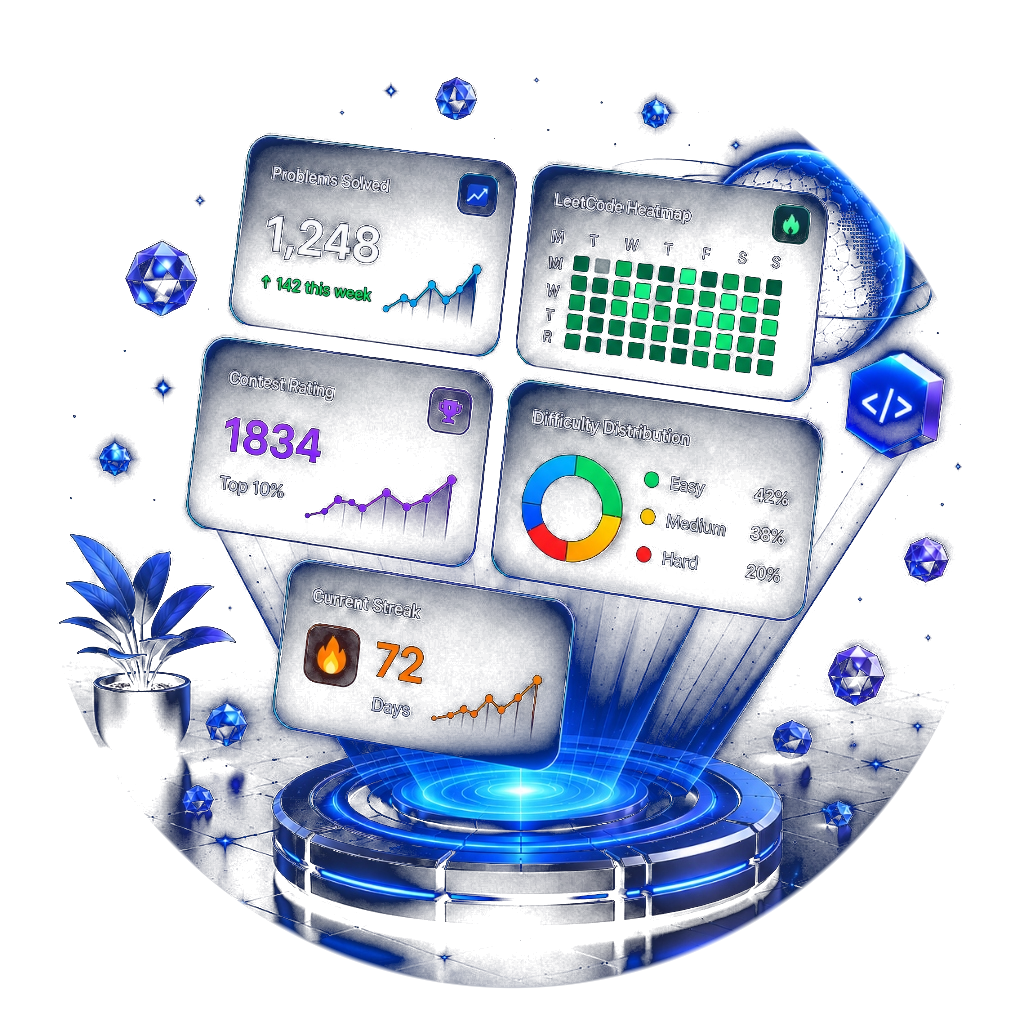
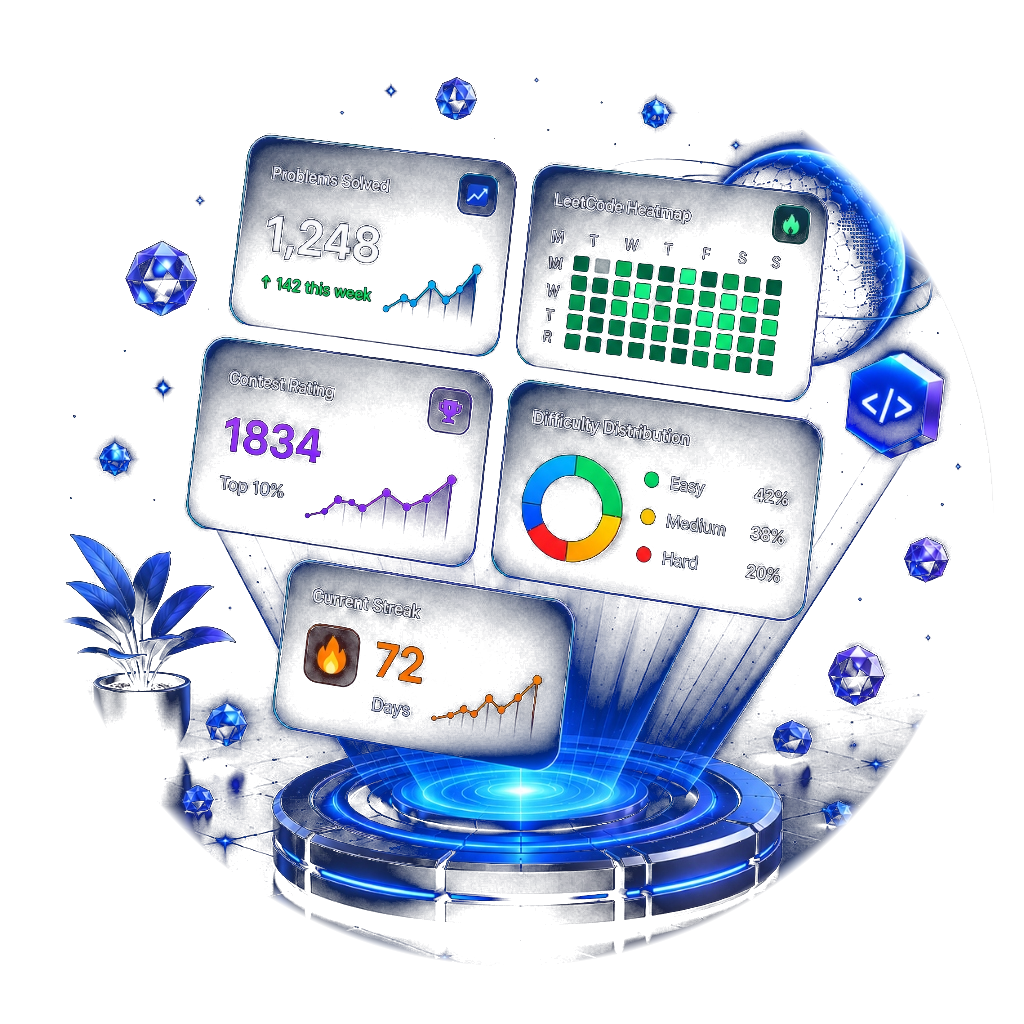
Eliminated bottom circular border curve and increased image size to 720px

diff --git a/frontend/src/components/landing/HeroDashboardProjector.tsx b/frontend/src/components/landing/HeroDashboardProjector.tsx
@@ -6,20 +6,20 @@ export const HeroDashboardProjector: React.FC = () => {
   const dark = theme === 'dark';
 
   return (
-    <div className="relative w-full max-w-[660px] flex items-center justify-center select-none py-2">
+    <div className="relative w-full max-w-[720px] flex items-center justify-center select-none py-2">
       {/* Soft Ambient Backlight Glow behind Circle */}
-      <div className={`absolute inset-6 rounded-full blur-[80px] pointer-events-none transition-all duration-700 ${
+      <div className={`absolute inset-6 rounded-full blur-[90px] pointer-events-none transition-all duration-700 ${
         dark 
           ? 'bg-gradient-to-tr from-sky-500/20 via-blue-600/15 to-indigo-600/20 opacity-80' 
           : 'bg-gradient-to-tr from-sky-300/30 via-blue-200/20 to-indigo-200/20 opacity-70'
       }`} />
 
-      {/* Pristine Crisp Circular Artwork with Heavy Outer Ring Trimmed Off */}
+      {/* Pristine Crisp Circular Artwork with Bottom Border Eliminated & Increased Size */}
       <div className="relative w-full flex items-center justify-center">
         <img
           src={dark ? '/assets/hero-circle-dark.png' : '/assets/hero-circle-light.png'}
           alt="CodeForge 3D Dashboard Circular Hologram"
-          className="w-full h-auto max-h-[600px] object-contain pointer-events-none transition-all duration-300"
+          className="w-full h-auto max-h-[660px] object-contain pointer-events-none transition-all duration-300"
         />
       </div>
     </div>